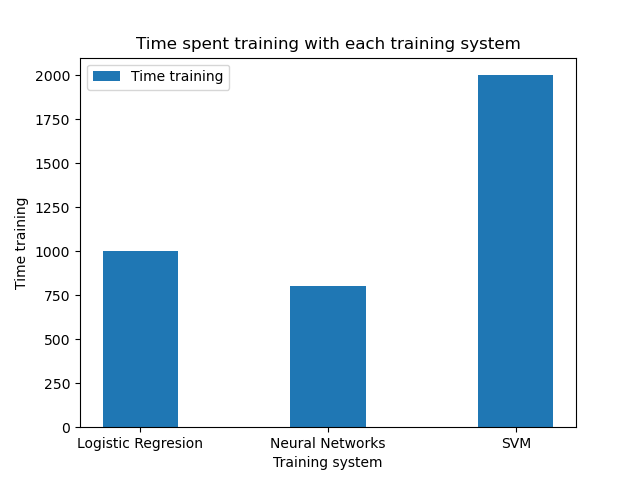
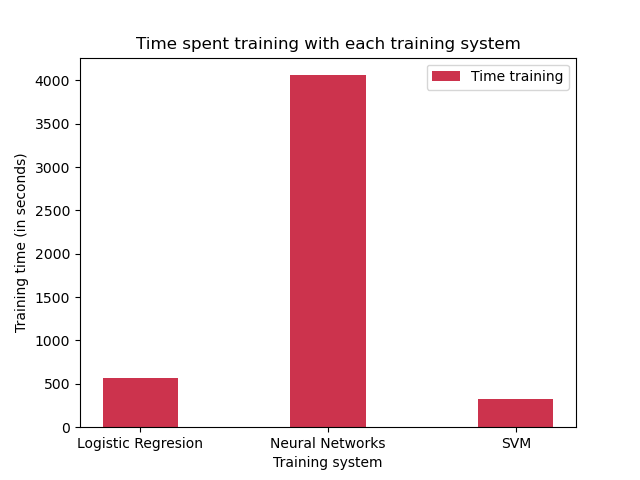
Subida final p7.2 espero deseo imploro

diff --git a/Practica7/p7_2/p7_2.py b/Practica7/p7_2/p7_2.py
@@ -29,7 +29,7 @@ def obtain_svm(x_train, y_train, x_val, y_val):
     c, sigma, svm_ = svm_list[best_accuracy]
     
     print("---------SVM validation finish---------")
-    print("SVM best parameters: C --> " + str(c) + "; Sigma --> " + str(sigma))
+    print("\nSVM best parameters: C --> " + str(c) + "; Sigma --> " + str(sigma) + "\n")
 
     return svm_
 
@@ -86,7 +86,7 @@ def obtain_neural_network(x_train, y_train, x_val, y_val):
          
         theta_1, theta_2 = nn.minimize(x_train, y_onehot, theta1, theta2, num_iters, lambda_value)
         
-        predict = ut.predict(theta_1, theta_2, x_val)
+        predict = nn.predict(theta_1, theta_2, x_val)
         accuracy = np.sum(y_val == predict) / y_val.shape[0]
 
         accuracies.append(accuracy)
@@ -97,43 +97,43 @@ def obtain_neural_network(x_train, y_train, x_val, y_val):
     lambda_, theta1, theta2 = nn_list[best_accuracy]
 
     print("---------Neural network validation finish---------")
-    print("Neural network best parameters: Lambda --> " + str(lambda_))
+    print("\nNeural network best parameters: Lambda --> " + str(lambda_) + "\n")
 
     return theta1, theta2
 
 def check_spam_svm(x_train, y_train, x_val, y_val, x_test, y_test):
     tic = time.process_time()
     svm = obtain_svm(x_train, y_train, x_val, y_val)
-    accuracy = skme.accuracy_score(y_test, svm.predict(x_test))
+    accuracy = skme.accuracy_score(y_test, svm.predict(x_test)) * 100
     toc = time.process_time()
     process_time = toc - tic
 
-    print("SVM accuracy: " + str(round(accuracy * 100, 2)) + "%%")
-    print("SVM process time: " + str(round(process_time, 2)) + " seconds")
+    print("SVM accuracy: " + str(round(accuracy, 2)) + "%%")
+    print("SVM process time: " + str(round(process_time, 2)) + " seconds\n")
     return accuracy, process_time
 
 def check_spam_reg_log(x_train, y_train, x_val, y_val, x_test, y_test):
     tic = time.process_time()
     w, b = obtain_reg_log(x_train, y_train, x_val, y_val)
     predict = lgr.predict(x_test, w, b)
-    accuracy = np.sum(y_test == predict) / y_test.shape[0]
+    accuracy = np.sum(y_test == predict) / y_test.shape[0] * 100
     toc = time.process_time()
     process_time = toc - tic
 
-    print("Logistic regression accuracy: " + str(round(accuracy * 100, 2)) + "%%")
-    print("Logistic regression process time: " + str(round(process_time, 2)) + " seconds")
+    print("Logistic regression accuracy: " + str(round(accuracy, 2)) + "%%")
+    print("Logistic regression process time: " + str(round(process_time, 2)) + " seconds\n")
     return accuracy, process_time
     
 def check_spam_neural_network(x_train, y_train, x_val, y_val, x_test, y_test):
     tic = time.process_time()
     theta1, theta2 = obtain_neural_network(x_train, y_train, x_val, y_val)
-    p = ut.predict(theta1, theta2, x_test)
-    accuracy = np.sum(y_test == p) / y_test.shape[0]
+    p = nn.predict(theta1, theta2, x_test)
+    accuracy = np.sum(y_test == p) / y_test.shape[0] * 100
     toc = time.process_time()
     process_time = toc - tic
     
-    print("Neural network accuracy: " + str(round(accuracy * 100, 2)) + "%%")
-    print("Neural network process time: " + str(round(process_time, 2)) + " seconds")
+    print("Neural network accuracy: " + str(round(accuracy, 2)) + "%%")
+    print("Neural network process time: " + str(round(process_time, 2)) + " seconds\n")
     return accuracy, process_time
 
 def main(training_sys):

diff --git a/Practica7/p7_2/utils.py b/Practica7/p7_2/utils.py
@@ -9,6 +9,7 @@ import matplotlib.pyplot as plt
 
 # import sys
 
+# given functions
 def preProcess(email):
     hdrstart = email.find("\n\n")
     if hdrstart != -1:
@@ -69,45 +70,9 @@ def getVocabDict(reverse=False):
 
     return vocab_dict
 
+# our methods
 def sigmoid(z):
     return 1 / (1 + np.exp(-z))
-
-def predict(theta1, theta2, X):
-    """
-    Predict the label of an input given a trained neural network.
-
-    Parameters
-    ----------
-    theta1 : array_like
-        Weights for the first layer in the neural network.
-        It has shape (2nd hidden layer size x input size)
-
-    theta2: array_like
-        Weights for the second layer in the neural network. 
-        It has shape (output layer size x 2nd hidden layer size)
-
-    X : array_like
-        The image inputs having shape (number of examples x image dimensions).
-
-    Return 
-    ------
-    predict : array_like
-        Predictions vector containing the predicted label for each example.
-        It has a length equal to the number of examples.
-    """
-
-    m = X.shape[0]
-    a1 = np.column_stack([np.ones((m, 1)), X])
-    z2 = a1 @ theta1.T
-
-    a2 = sigmoid(z2)
-    a2 = np.column_stack([np.ones((m, 1)), a2])
-    z3 = a2 @ theta2.T
-
-    a3 = sigmoid(z3)
-    predict = np.argmax(a3, axis=1)
-
-    return predict
 
 def obtainAllDirectoryFiles(dir):
     return [os.path.join(dir, dir_file) for dir_file in os.listdir(dir) if os.path.isfile(os.path.join(dir, dir_file))]
@@ -155,8 +120,6 @@ def preprocess_data():
 def plot_results(log_acc, log_time, nn_acc, nn_time, svm_acc, svm_time):
     plot_beginning = 80
 
-    print('hi')
-
     X_plot = ['Logistic Regresion', 'Neural Networks', 'SVM']
     y_plot = [log_acc - plot_beginning, nn_acc - plot_beginning, svm_acc - plot_beginning]
     y_plot_time = [log_time, nn_time, svm_time]
@@ -167,7 +130,7 @@ def plot_results(log_acc, log_time, nn_acc, nn_time, svm_acc, svm_time):
     plt.xlabel("Training system")
     plt.ylabel("Success rate")
 
-    plt.bar(X_axis, y_plot, 0.4, label = 'Success rate', bottom=plot_beginning)
+    plt.bar(X_axis, y_plot, 0.4, label = 'Success rate', bottom=plot_beginning, color=(0.1, 0.3, 0.9, 1))
     plt.xticks(X_axis, X_plot)
 
     plt.legend()
@@ -176,9 +139,9 @@ def plot_results(log_acc, log_time, nn_acc, nn_time, svm_acc, svm_time):
 
     plt.title("Time spent training with each training system")
     plt.xlabel("Training system")
-    plt.ylabel("Time training")
+    plt.ylabel("Training time (in seconds)")
 
-    plt.bar(X_axis, y_plot_time, 0.4, label = 'Time training')
+    plt.bar(X_axis, y_plot_time, 0.4, label = 'Time training', color=(0.8, 0.2, 0.3, 1))
     plt.xticks(X_axis, X_plot)
     
     plt.legend()

diff --git a/Practica7/p7_2/nn.py b/Practica7/p7_2/nn.py
@@ -139,6 +139,43 @@ def backprop(theta1, theta2, X, y, lambda_):
 
     return J, grad1, grad2                      # 25 x 401; 10 x 26 
 
+def predict(theta1, theta2, X):
+    """
+    Predict the label of an input given a trained neural network.
+
+    Parameters
+    ----------
+    theta1 : array_like
+        Weights for the first layer in the neural network.
+        It has shape (2nd hidden layer size x input size)
+
+    theta2: array_like
+        Weights for the second layer in the neural network. 
+        It has shape (output layer size x 2nd hidden layer size)
+
+    X : array_like
+        The image inputs having shape (number of examples x image dimensions).
+
+    Return 
+    ------
+    predict : array_like
+        Predictions vector containing the predicted label for each example.
+        It has a length equal to the number of examples.
+    """
+
+    m = X.shape[0]
+    a1 = np.column_stack([np.ones((m, 1)), X])
+    z2 = a1 @ theta1.T
+
+    a2 = ut.sigmoid(z2)
+    a2 = np.column_stack([np.ones((m, 1)), a2])
+    z3 = a2 @ theta2.T
+
+    a3 = ut.sigmoid(z3)
+    predict = np.argmax(a3, axis=1)
+
+    return predict
+
 # unoptimized way to obtain gradient
 def gradient(theta1, theta2, X, y, num_iters, alpha, lambda_=0):
     for _ in range(num_iters):
